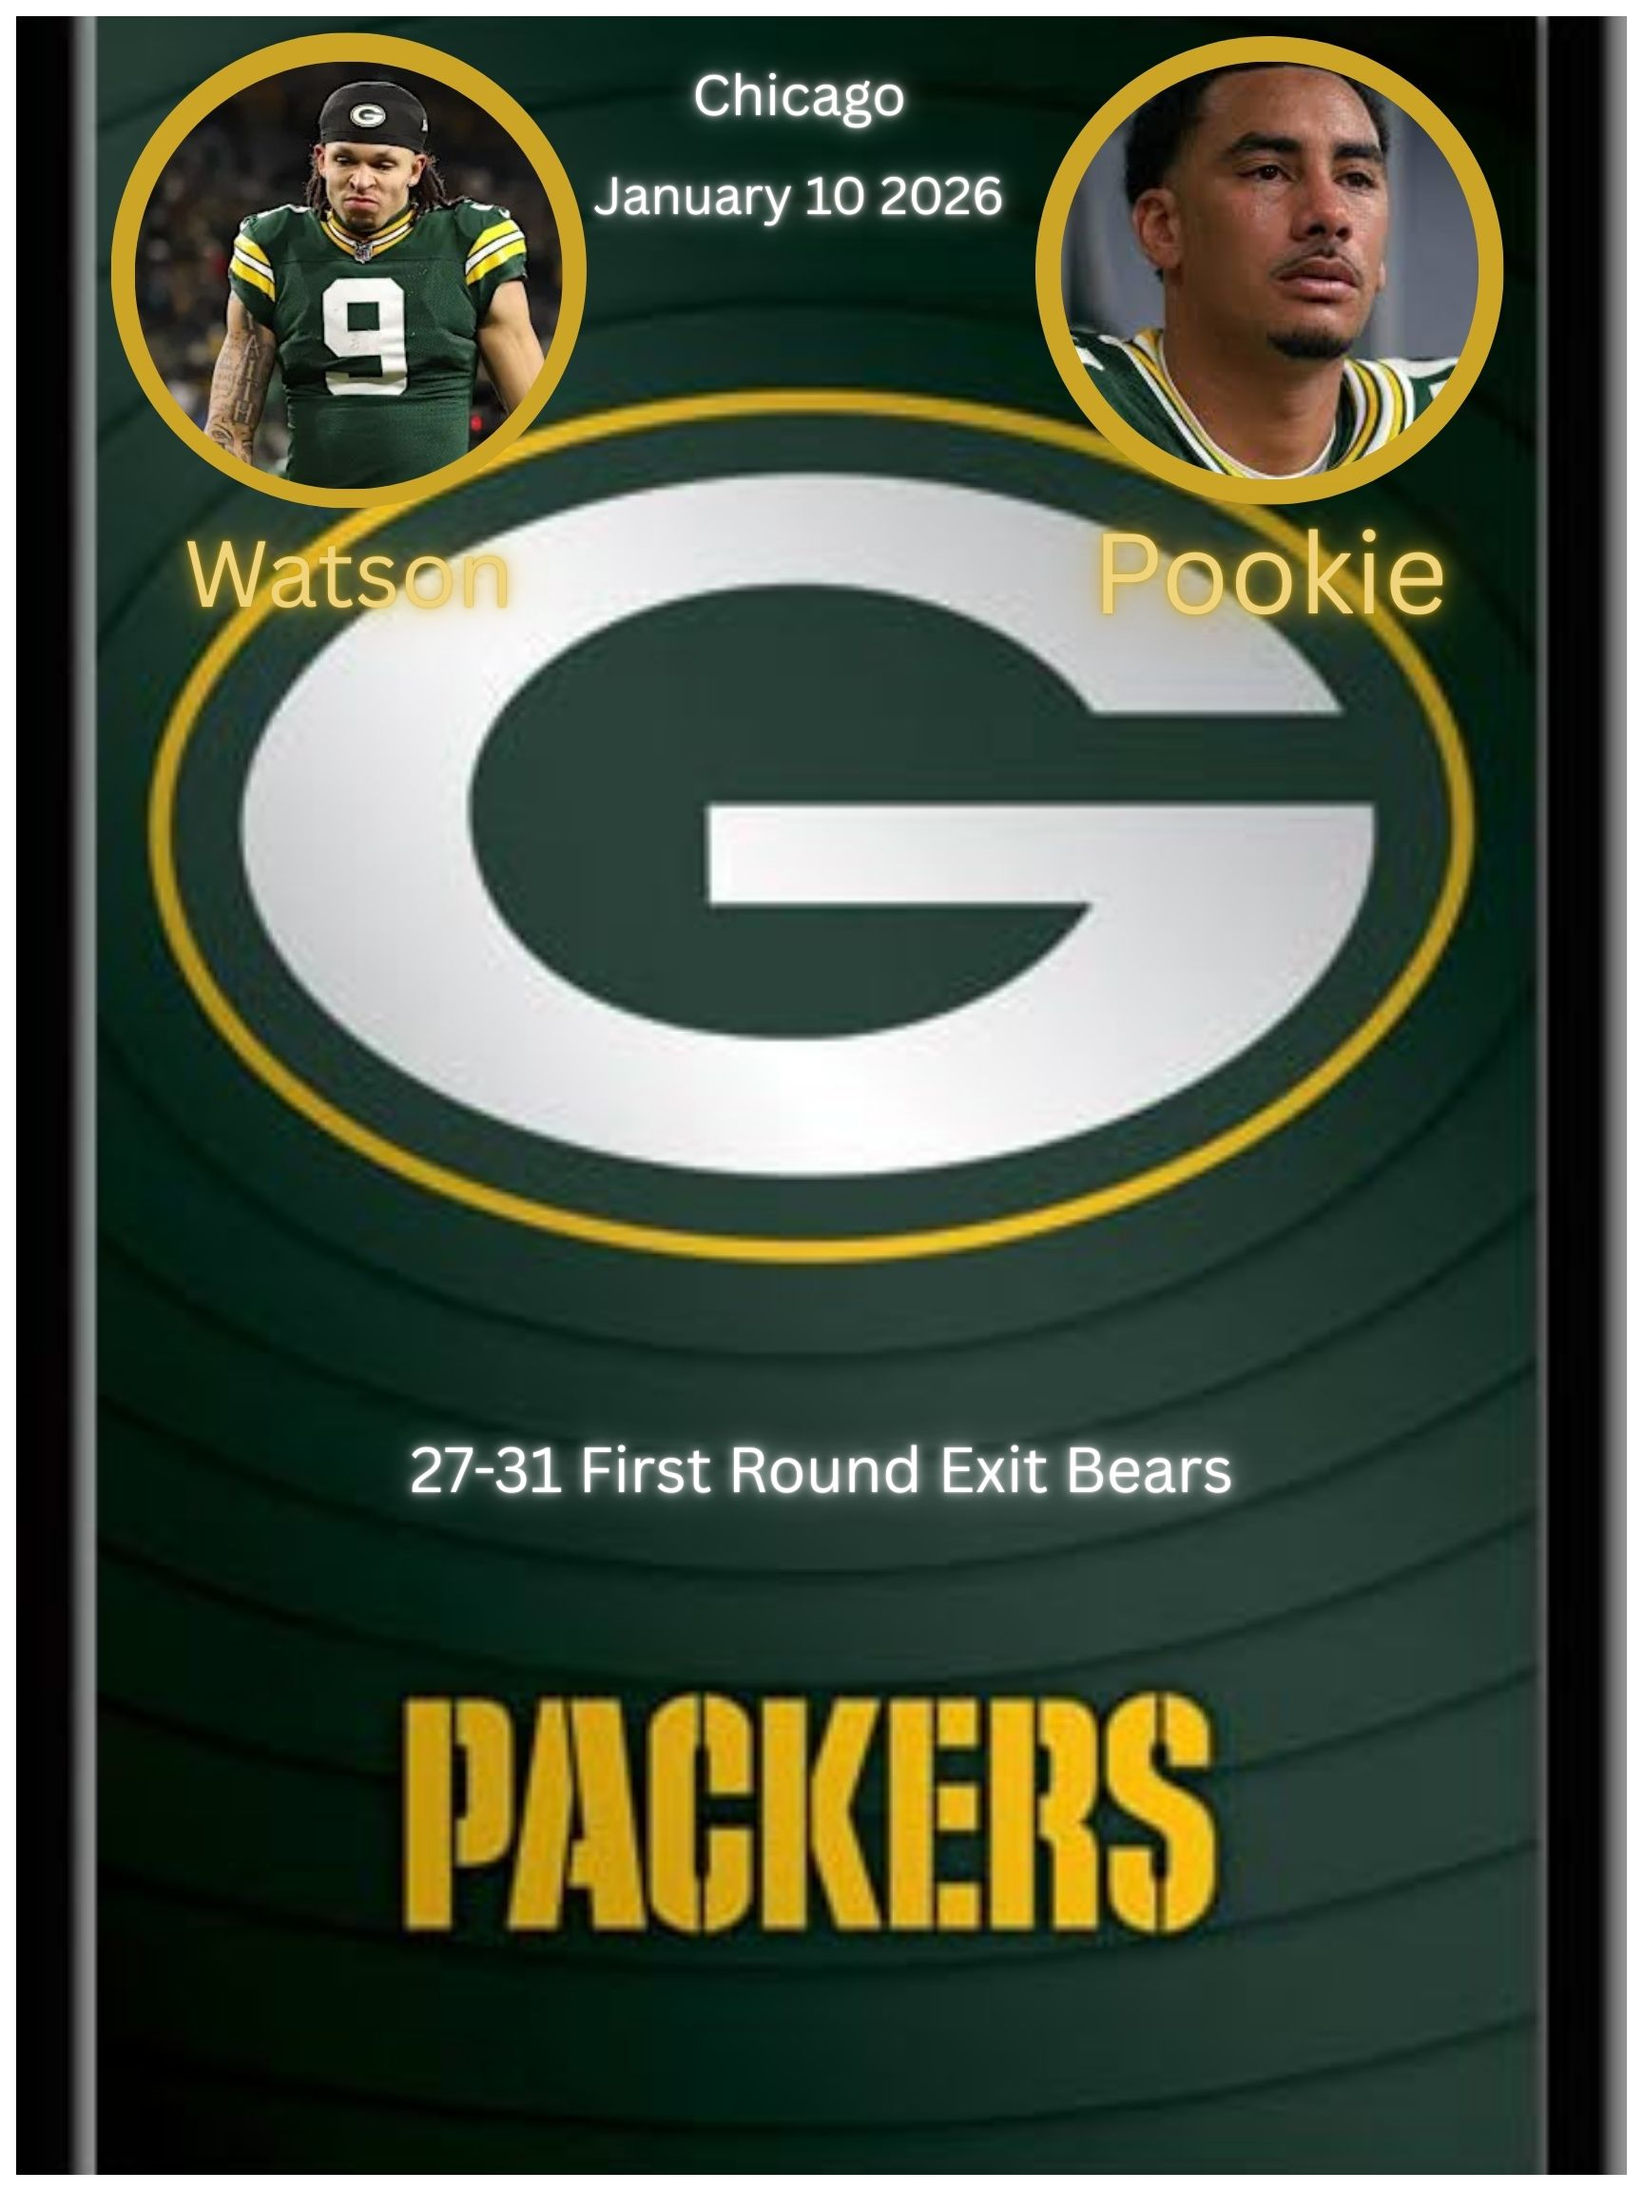
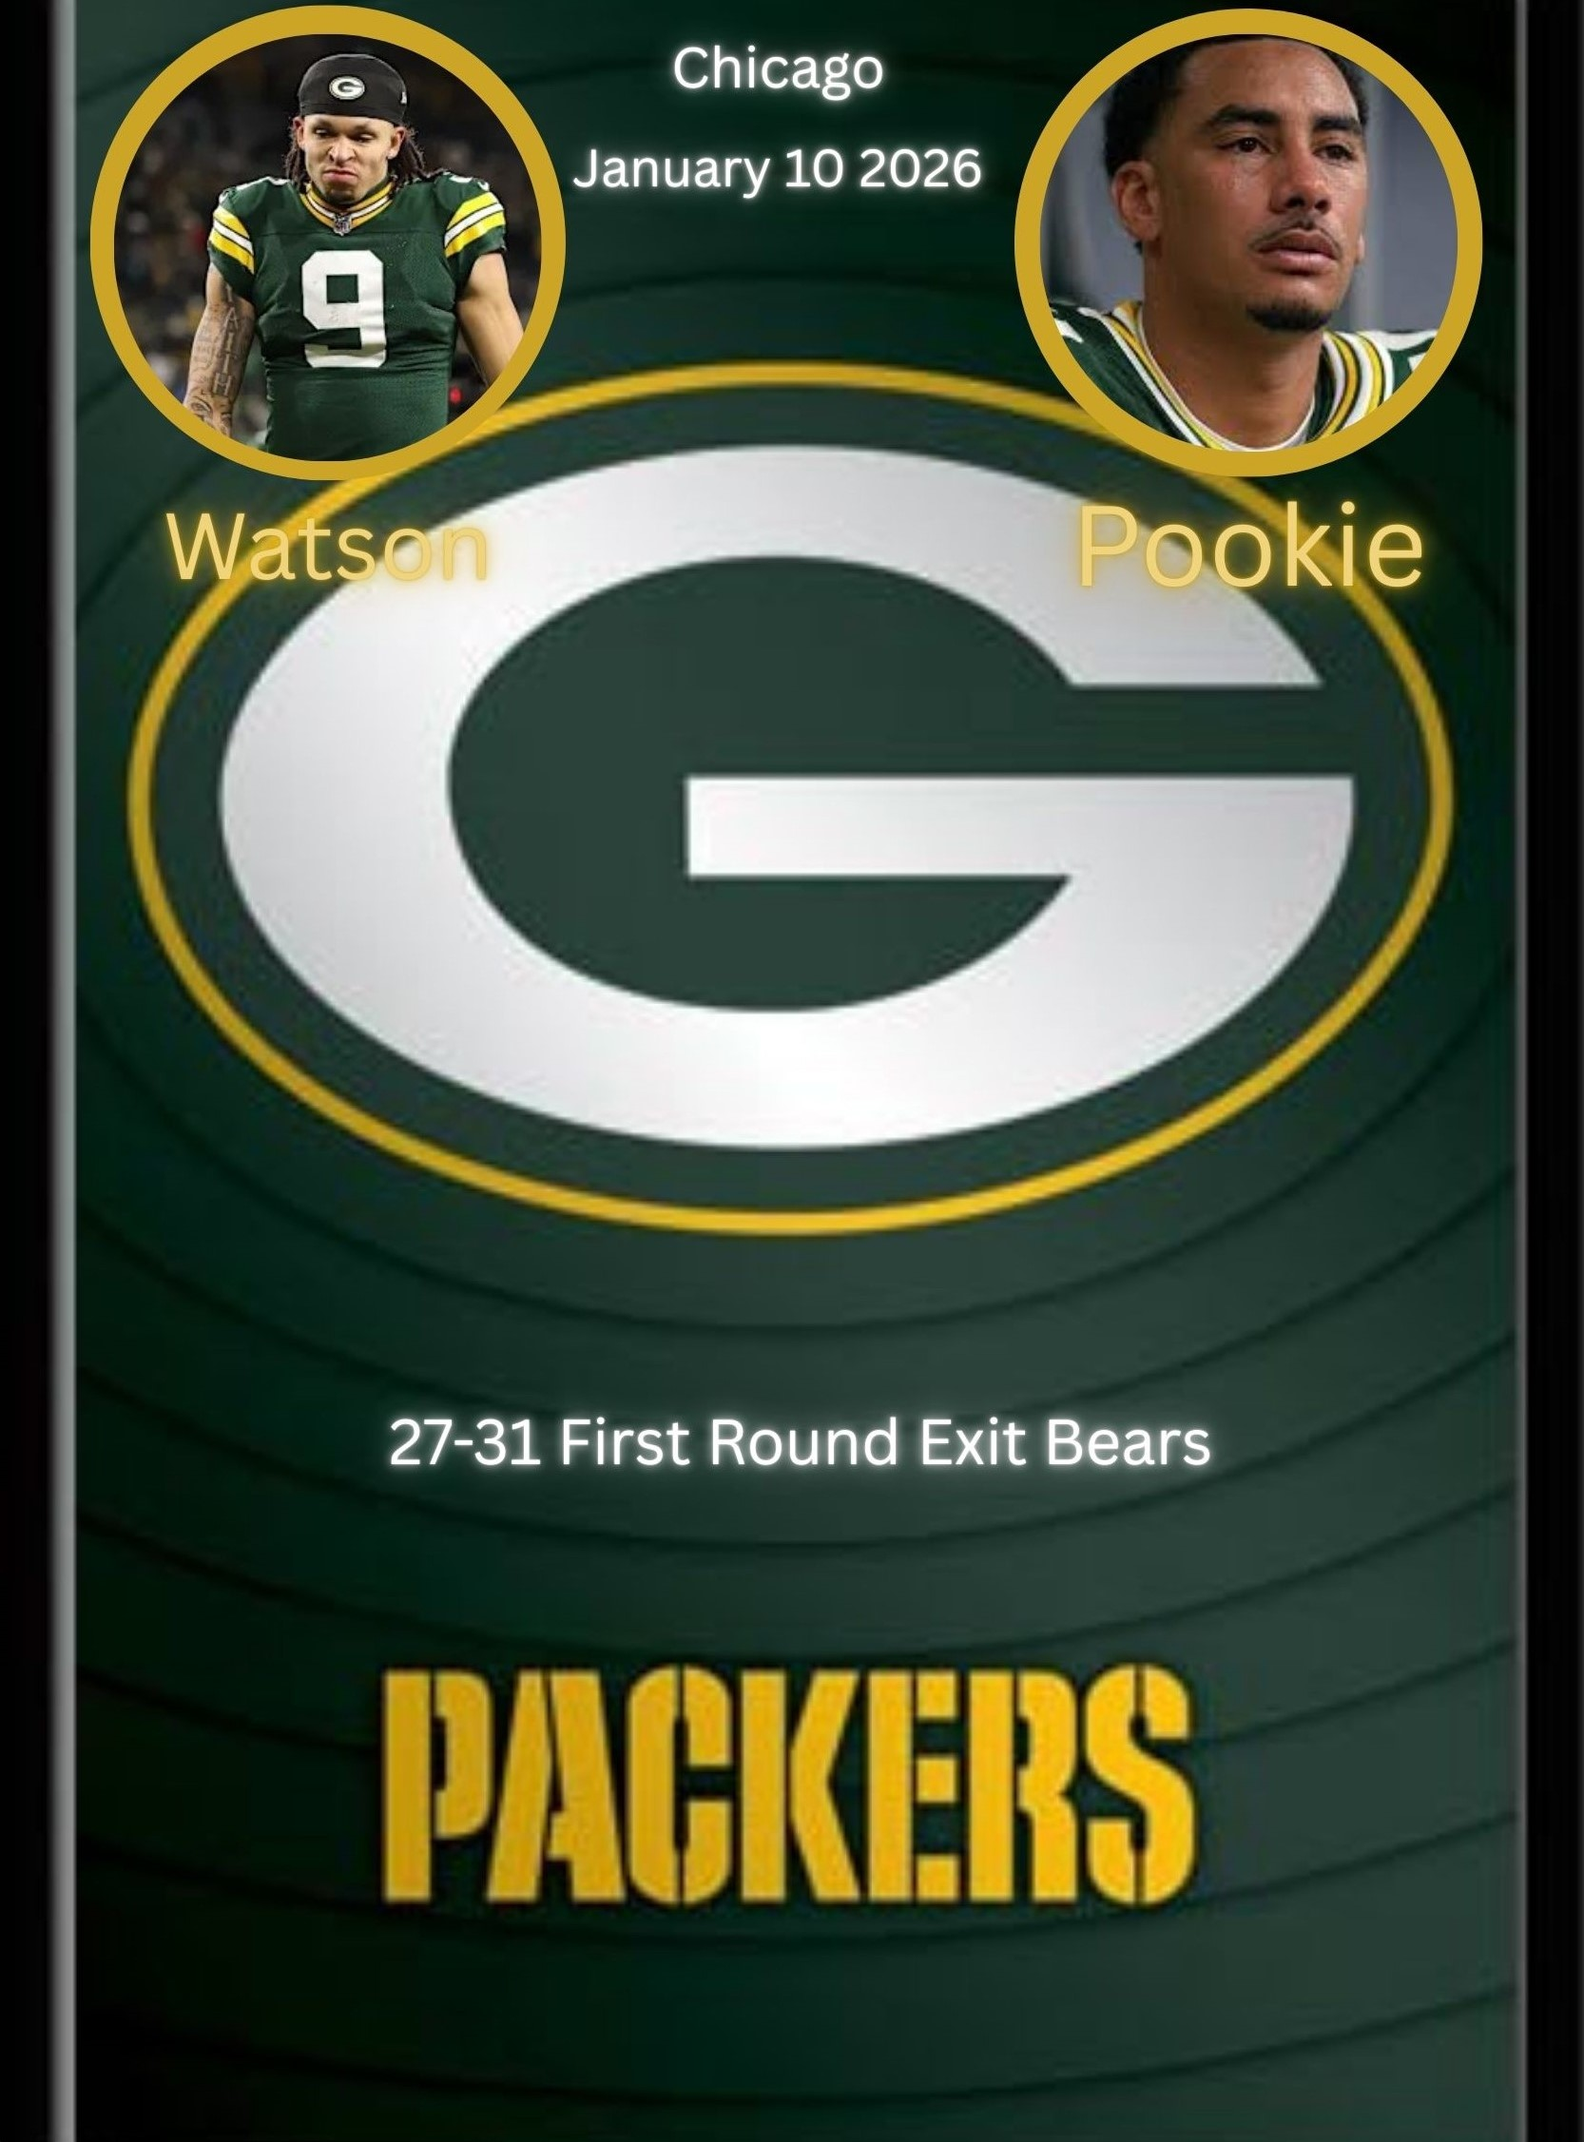
actualfina

diff --git a/style.css b/style.css
@@ -1,3 +1,5 @@
+@import url('https://fonts.googleapis.com/css2?family=Saira+Stencil+One&display=swap');
+
 img{
     width: 95%;
     margin-left:auto;
@@ -13,21 +15,21 @@ img{
     padding: 50px;
     padding-top: 20px;
     width:35%;
-    background-color: rgb(39, 104, 39);
-    border-radius: 50px;
+    background-color: #FFB612;
+    border-radius: 25px;
     box-shadow: 0px 0px 10px 5px rgba(0, 0, 0, 0.5);
 }
 
 .bigbox{
     display: flex;
-    padding-top: 50px;
+    padding-top: 25px;
     flex-wrap: wrap;
     justify-content: space-around;
     width: 90%;
 }
 body{
     font-size: 1vw;
-        background-color: rgb(255, 228, 76);
+        background-color: #203731;
 }
 
 .shaunat{width: 40px;position: sticky; top: 0;  z-index: 1000; }
@@ -36,13 +38,17 @@ body{
 }
 
 p{
-    color:rgb(255, 228, 76);
+    font-family:Arial, Helvetica, sans-serif;
+    color:#203731;
     text-shadow: 2px 2px 5px rgba(0, 0, 0, 0.5)
 }
 
 h1{
-    color:rgb(255, 228, 76);
-    text-shadow: 2px 2px 5px rgba(0, 0, 0, 0.5)
+    font-size: 100px;
+    font-family: "Saira Stencil One", sans-serif;
+    color:#FFB612;
+    text-shadow: 2px 2px 5px rgba(0, 0, 0, 0.5);
+    
 }
 .header{
     display:flex;
@@ -51,13 +57,14 @@ h1{
     margin-left:auto;
     margin-right:auto;
     padding: 10px;
-    width: 23%;
-    background-color: rgb(39,104,39);
+    width: 50%;
     border-radius: 20px;
     padding-bottom: 10px;
-    box-shadow: 0px 0px 10px 5px rgba(0, 0, 0, 0.5);
+
 }
 h2{
-    color:rgb(255, 228, 76);
+    font-size:60px;
+    font-family: "Saira Stencil One", sans-serif;
+    color:#203731;
     text-shadow: 2px 2px 5px rgba(0, 0, 0, 0.5)
 }
